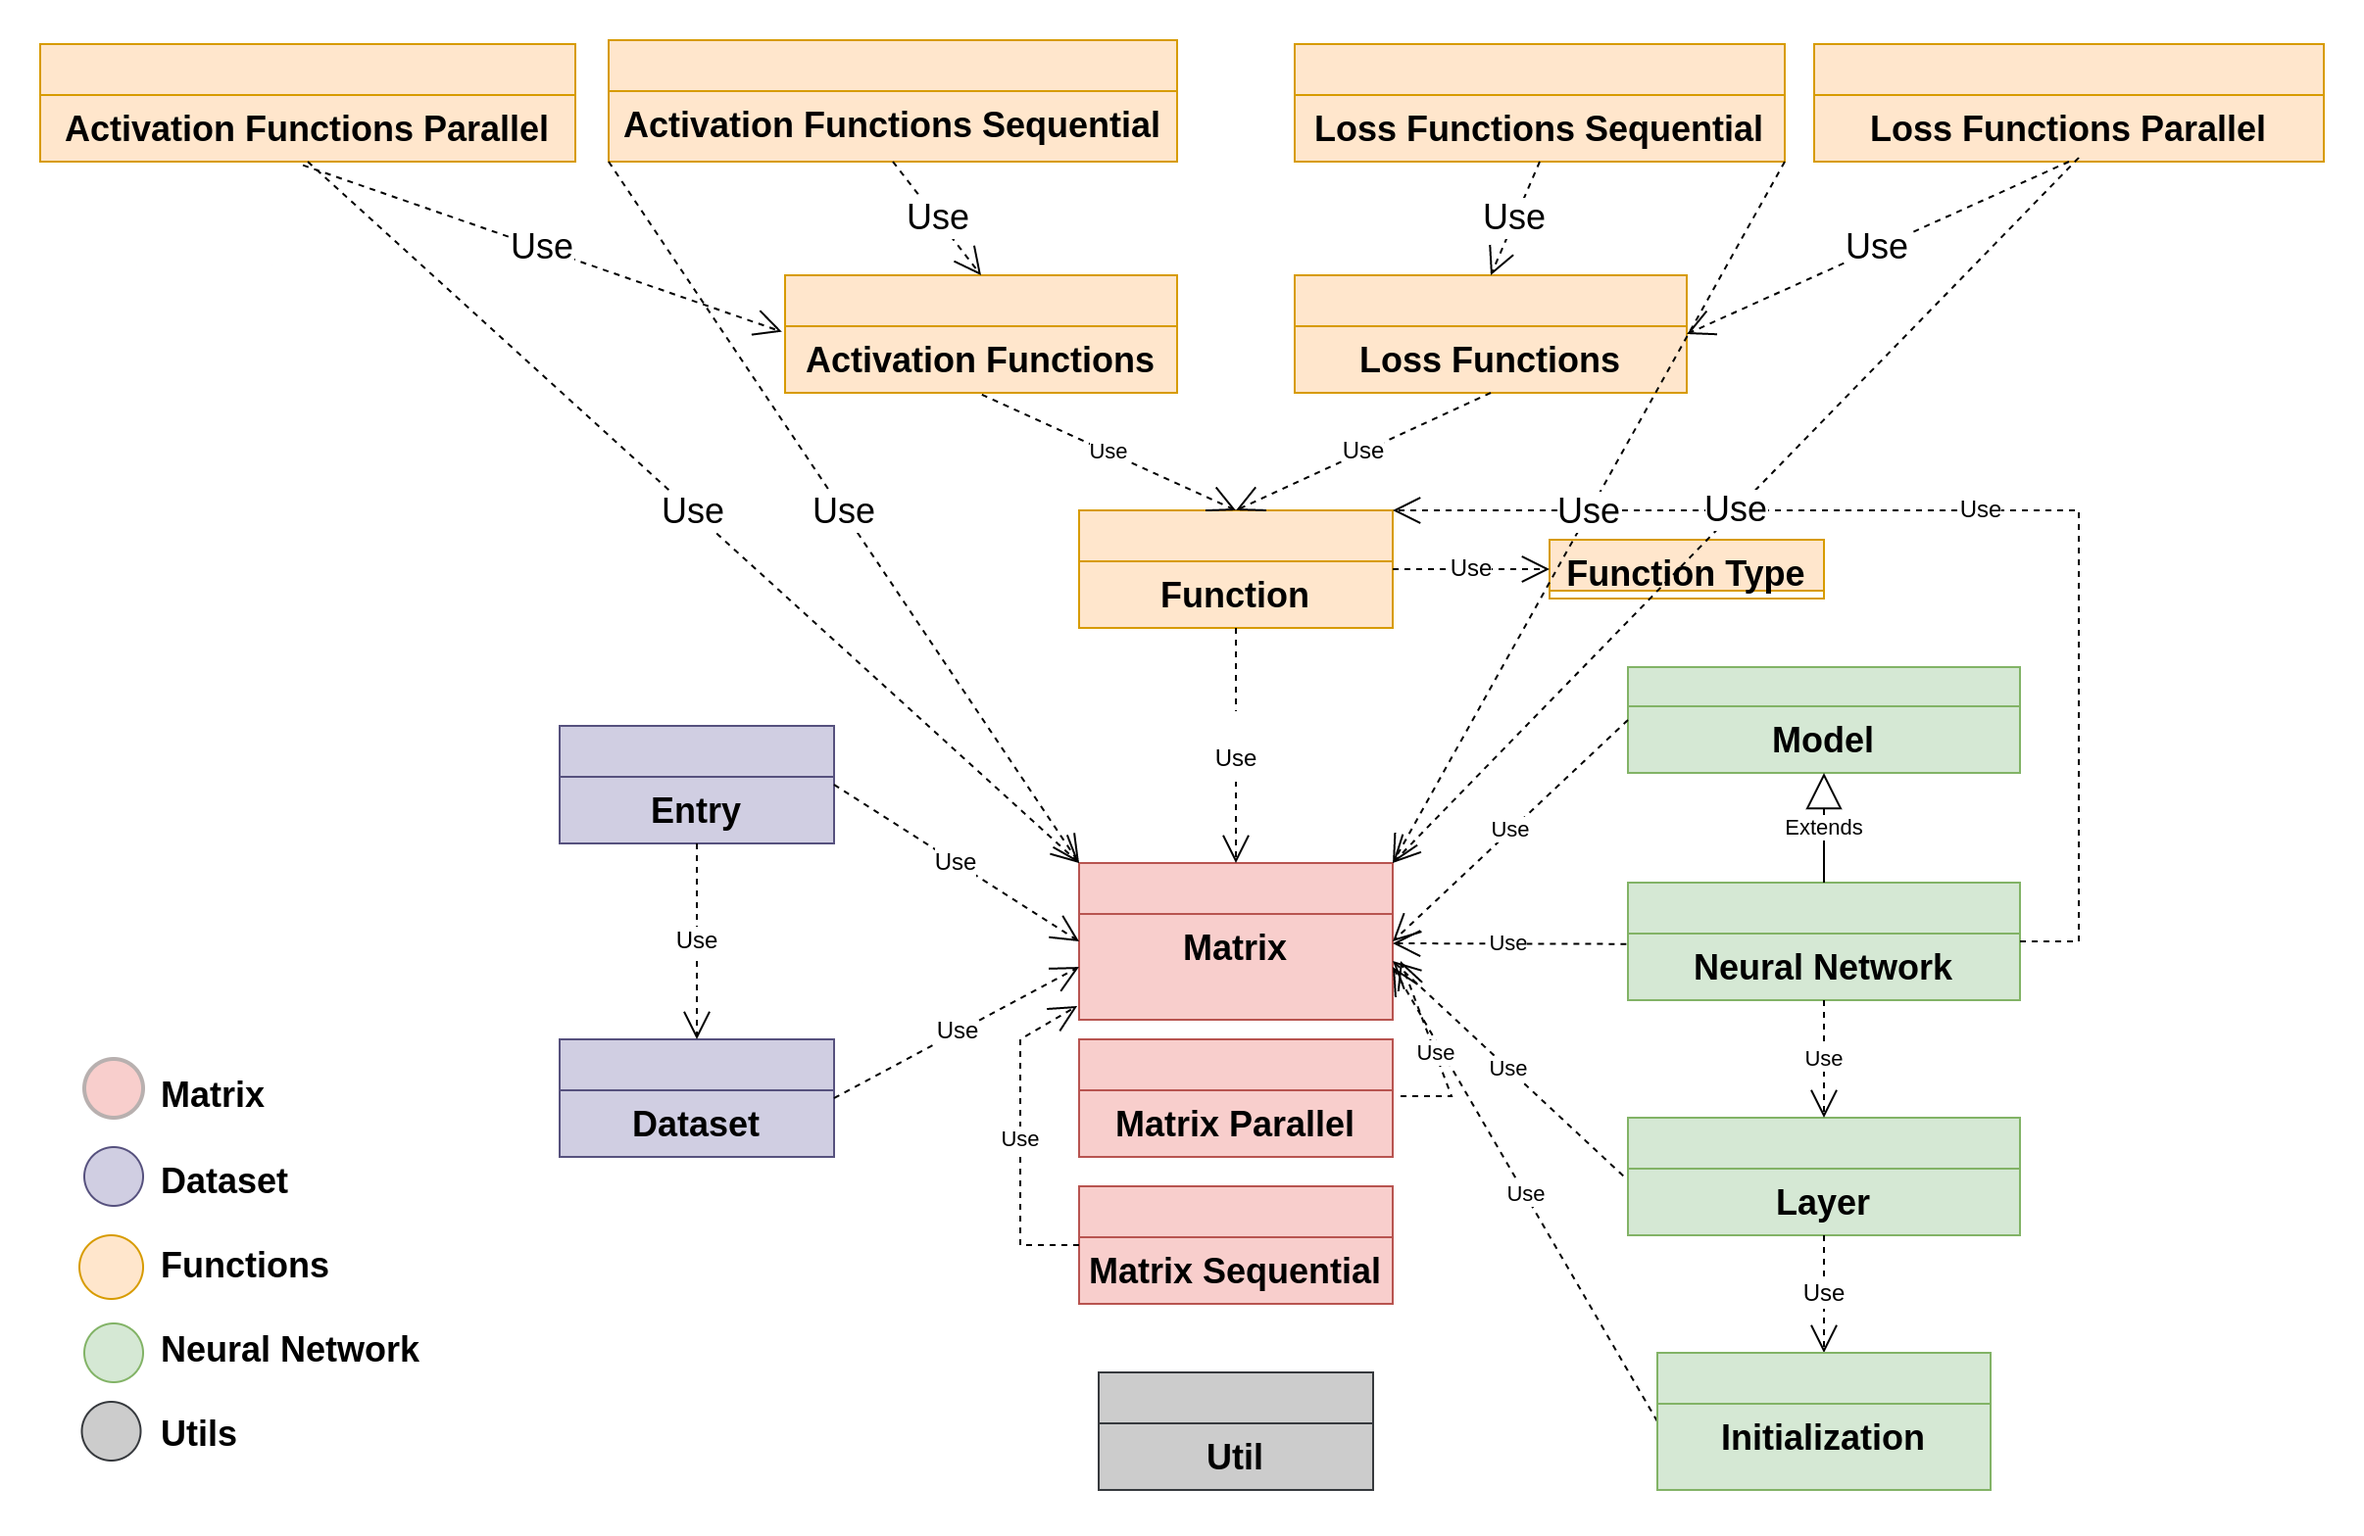
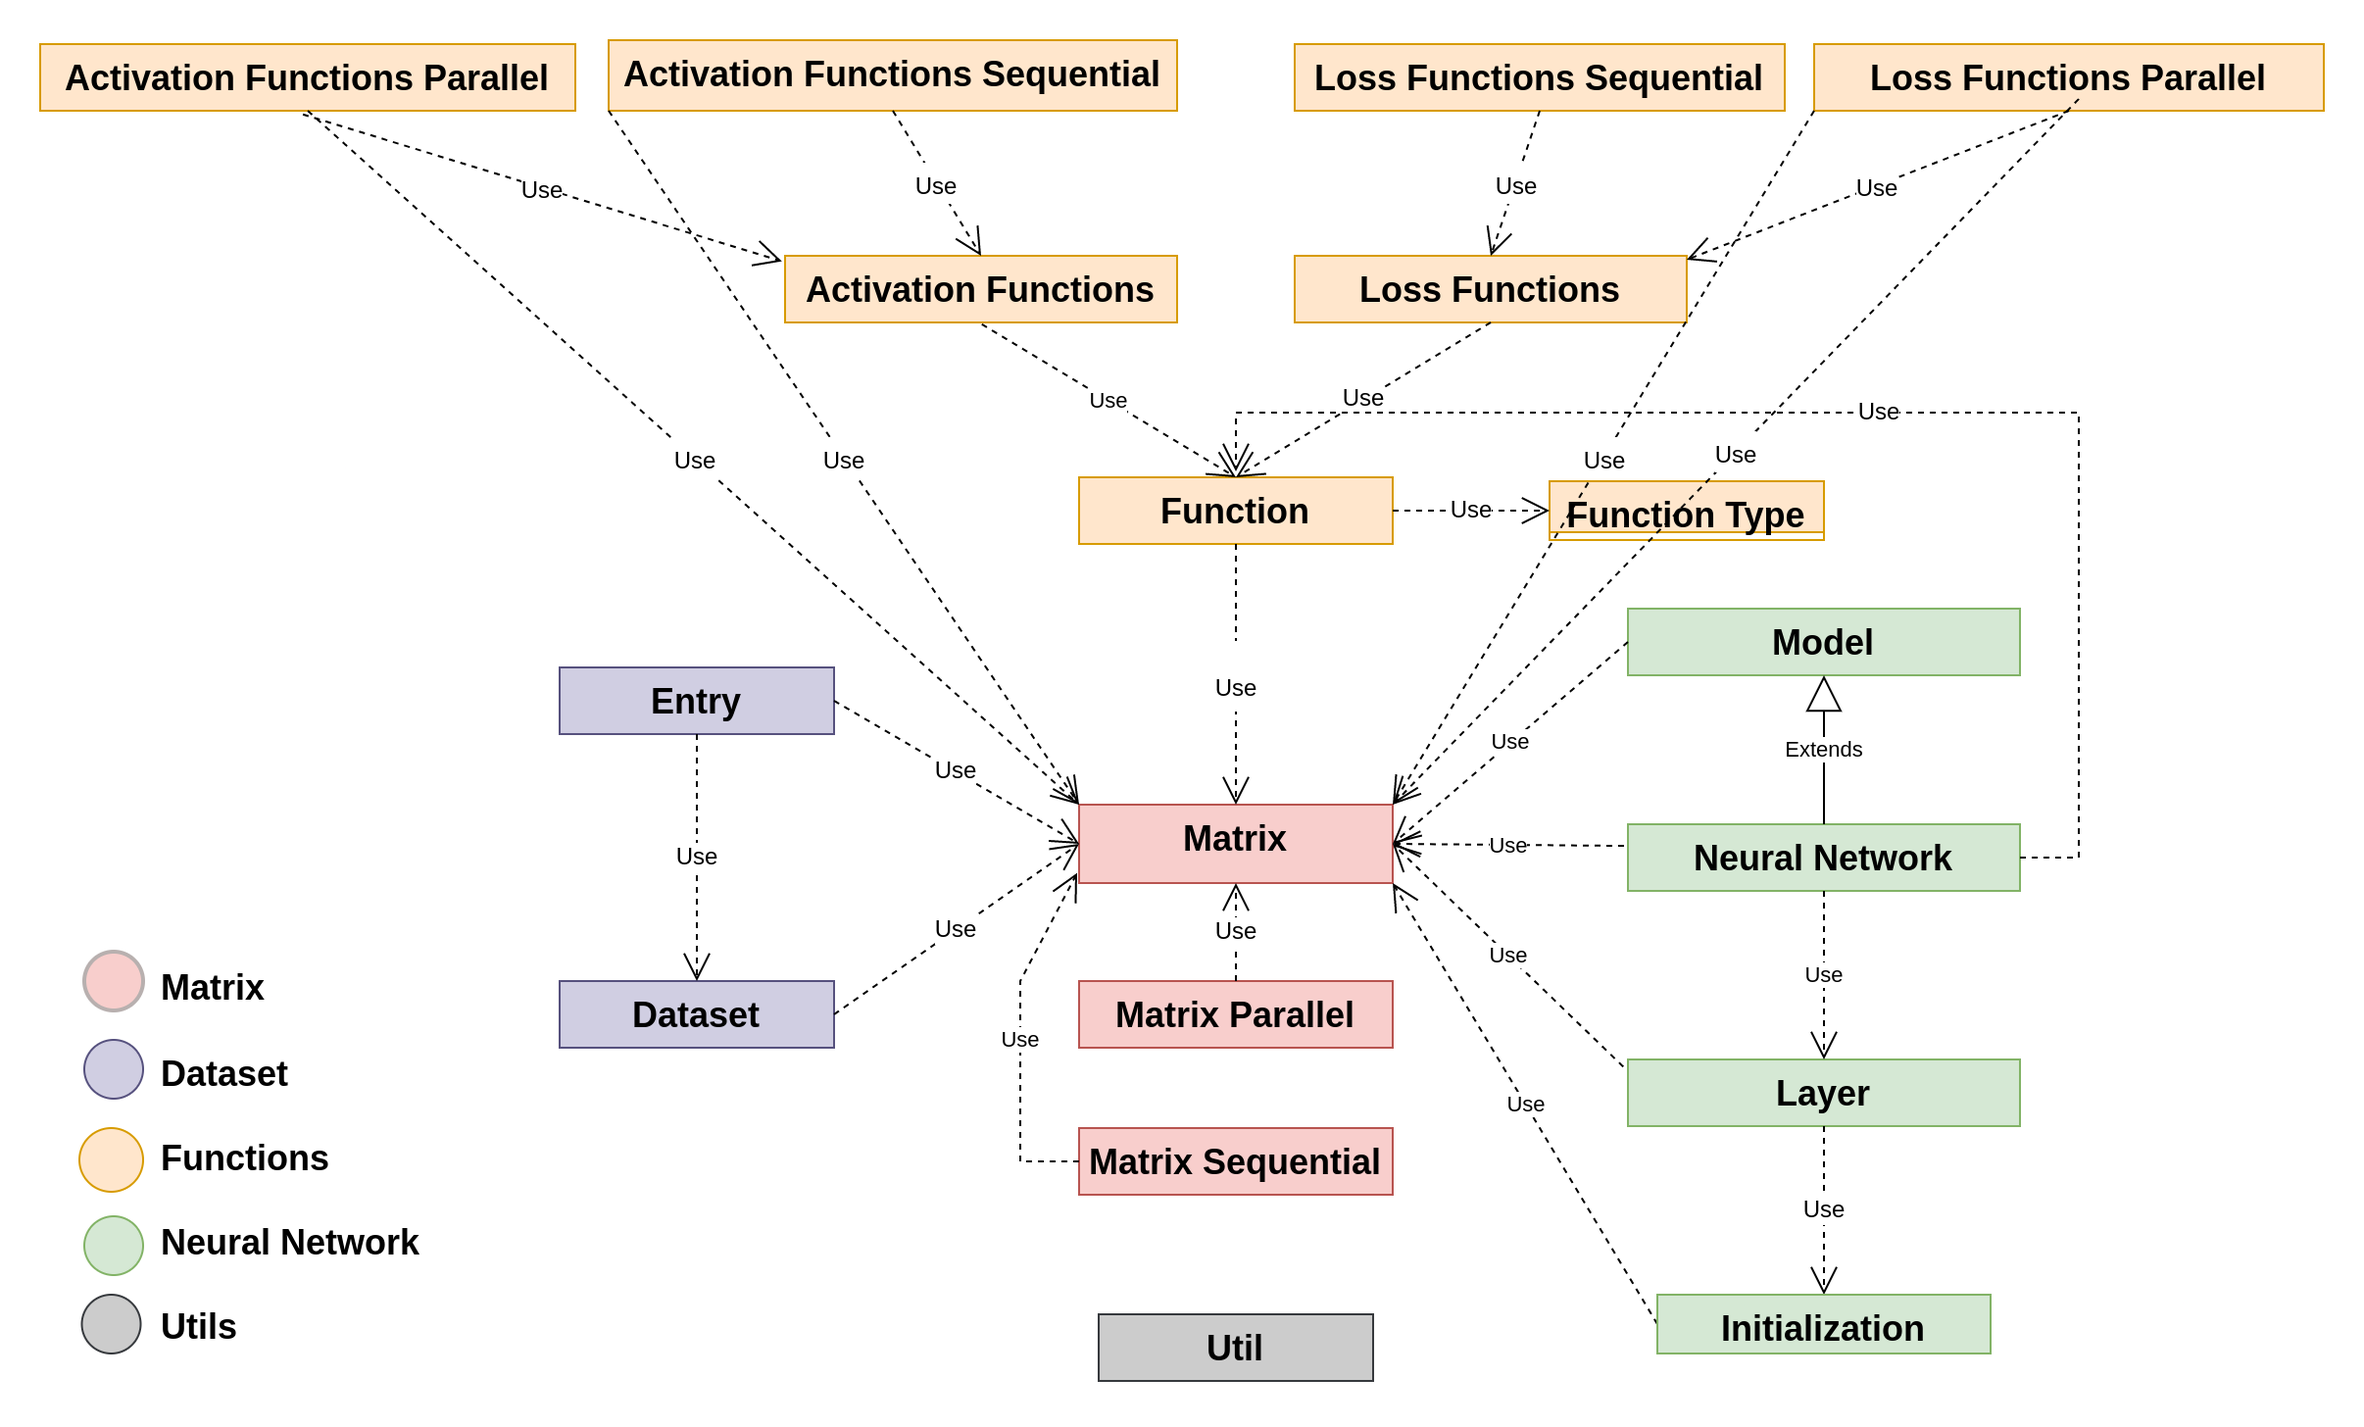
Updated README.md.

diff --git a/library/lib/models/neural_network/neural_network.cpp b/library/lib/models/neural_network/neural_network.cpp
@@ -80,7 +80,6 @@ void neural_network::_backward_propagation(matrix &predictions,
                                            matrix &labels,
                                            const function &loss_function)
 {
-    auto cost = loss_function.compute({ &predictions, &labels });
     auto errors = loss_function.compute_derivatives({ &predictions, &labels });
 
     for (size_t i = _layers.size(); i > 0; i --)

diff --git a/README.md b/README.md
@@ -27,12 +27,74 @@
 
 ### Summary 
 
+This repository is the implementation a basic neural network, functions and datasets library using C++ and CUDA. 
+The use of a GPU allows the library to quickly build large models, with many processing units, on large datasets, 
+faster than with classical CPU.
+
 ### Architecture
+
+#### Modules
+
+Here are the main modules of the library. As it is clearly exposed on the following 
+diagrams, the matrix class is the data structure at the origin of every other structure.
+
+- An overview of the library:
+
+<img src="res/architecture_simple.png">
+
+- A more detailed view of the library: 
 
 <img src="res/architecture.png">
 
-### Challenges    
+#### CUDA kernels
 
+Here is a quick summary of the CUDA pattern usages through the library.
+
+|                                  | Shared Memory | Reduction | Tiles | Column |
+|:---------------------------------|:-------------:|:---------:|:-----:|:------:|
+| matrix addition                  |               |          |       | ✗    |                          
+| matrix subtraction               |               |          |       | ✗    |                          
+| matrix multiplication            |      ✗       |           |  ✗   |        |
+| matrix multiplication by a float |               |           |       |   ✗   |
+| matrix Hadamard product          |               |           |       |   ✗   |
+| matrix sum                       |      ✗       |    ✗     |       |        |
+| matrix transpose                 |              |           |       |   ✗   |
+
+|                        | Shared Memory | Reduction | Tiles | Column |
+|:-----------------------|:-------------:|:---------:|:-----:|:------:|
+| linear                 |               |          |       | ✗   |                          
+| linear derivative      |               |          |       | ✗   |                          
+| binary step            |               |          |       | ✗   |                          
+| binary step derivative |               |          |       | ✗   |                          
+| sigmoid                |               |          |       | ✗   |                          
+| sigmoid derivative     |               |          |       | ✗   |                          
+| relu                   |               |          |       | ✗    |                          
+| relu derivative        |               |          |       | ✗    |                          
+| tanh                   |               |          |       | ✗    |                          
+| tanh derivative        |               |          |       | ✗   |                          
+| softmax                |      ✗      |   ✗     |       |      |                          
+| softmax derivative     |      ✗       |   ✗     |       |      |                          
+
+|                                      | Shared Memory | Reduction | Tiles | Column |
+|:-------------------------------------|:-------------:|:---------:|:-----:|:------:|
+| mean squared error                   |               |          |       |  ✗   |                          
+| mean squared error derivative        |               |          |       |  ✗   |                          
+| mean absolute error                  |               |          |       |  ✗   |                          
+| mean absolute error derivative       |               |          |       |  ✗   |                          
+| mean bias error                      |               |          |       |  ✗   |                          
+| mean bias error derivative           |               |          |       |  ✗   |                          
+| hinge loss                           |               |          |       |  ✗   |                          
+| hinge loss derivative                |               |          |       |  ✗   |                          
+| binary cross entropy loss            |               |          |       |  ✗   |                          
+| binary cross entropy loss derivative |               |          |       |  ✗   |                          
+| cross entropy loss                   |      ✗       |  ✗      |       |      |                          
+| cross entropy loss derivative        |               |          |       |  ✗   |                          
+
+- **Shared Memory:** the kernel involve the use of shared memory for each executing block.
+- **Reduction:** the kernel involve the use of the multi-blocks reduction pattern.
+- **Tiles:** the kernel involve tile organization (limited global memory accesses).
+- **Column:** the kernel involve column organization (a thread computing a column).
+ 
 ## Performances <a id="performances"></a>
 
 ### Device and host specifications
